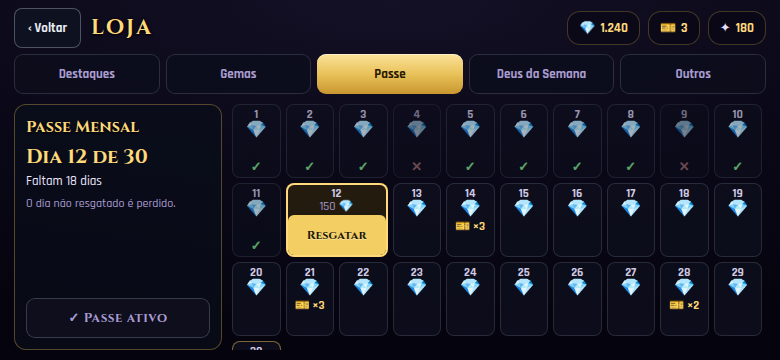
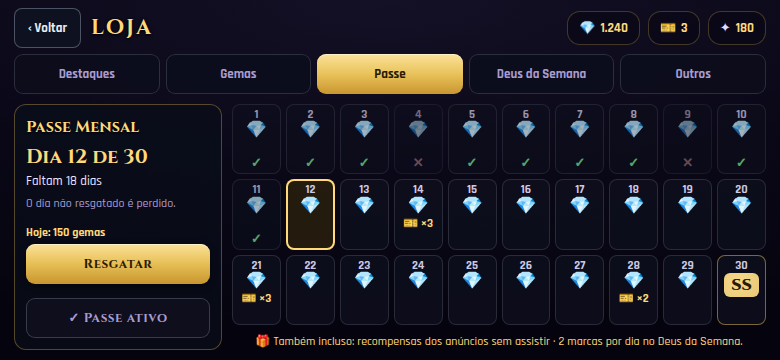
§371b · Loja — três ajustes (aba Passe, Deus da Semana, rodapé)
1. Aba Passe: o dia 30 (o SS) voltou a aparecer. A grade virou 10×3 FIXA (sem rolagem),
   com o dia 30 sempre no canto; a célula de HOJE fica só destacada e é clicável (atalho
   de resgate). O botão RESGATAR foi para o painel da esquerda ("Hoje: <recompensa>",
   acima de "✓ Passe ativo"); após resgatar vira "✓ Resgatado hoje".
   Por que a auditoria não pegou o dia 30 fora: o SCROLL_OK tinha '.loja'/'#loja' e o
   d7/d5 usam closest() → isentavam a tela inteira da Loja do "fora da tela". Caso
   fechado: tirei '.loja'/'#loja' do SCROLL_OK (só a grade de gemas .loja-grade rola); a
   grade do passe (.loja-passe-grade) não é rolável e agora o d7 a guarda.
2. Deus da Semana: o retrato mostra o ROSTO (background-position center 18%, como os
   montadores; caixa com altura no cartão de Destaques) e o cartão de Destaques mostra
   "termina em Xd Yh" (o §371 pedia e faltava). O "ou 1.800 gemas" saiu do teaser (segue
   inteiro na aba Deus da Semana).
3. Rodapé: removido o ponto solto depois de "Ver detalhes".

Provas: tests/loja_tela.test.js (26 ok — 30 dias na grade 10×3, 30ª célula é o selo SS,
Resgatar no painel + atalho na célula de hoje). acessibilidade_telas segue a=b=c=d=e=0 na
Loja (o d7 agora guarda a grade do passe). Capturas 371b-* (passe, destaques, deus da
semana) em 780×360 e 1846×852; 371-* regeneradas. Suíte + build verdes.

Claude-Session: https://claude.ai/code/session_01RXkcJMEMadTZtCymgt9Yf6

diff --git a/src/loja.js b/src/loja.js
@@ -209,8 +209,8 @@ const LOJA = (function () {
       ${artinhaDeus(ds.deus)}
       <div class="loja-card__linha"><b class="loja-card__nome">${esc(nomeDeus(ds.deus))}</b><span class="loja-selo">${esc(ds.raridade || 'S')}</span></div>
       <div class="loja-card__row"><span class="loja-card__marcas">${marcas} de ${meta} marcas</span><span class="loja-dots">${pontos}</span></div>
+      <p class="loja-card__nota">termina em ${terminaEm()}</p>
       ${btn}
-      <p class="loja-card__nota">ou ${fmt((ds.compraDireta) || 1800)} gemas</p>
     </section>`;
   }
   function cardOfertaDestaque() {
@@ -234,7 +234,7 @@ const LOJA = (function () {
 
   function abaDestaques() {
     return `<div class="loja-destaques">${cardPasseDestaque()}${cardDeusDestaque()}${cardOfertaDestaque()}</div>
-      <button class="loja-rodape" onclick="LOJA.verChances()">ⓘ Itens de sorteio mostram as chances em <b>Ver detalhes</b>.</button>`;
+      <button class="loja-rodape" onclick="LOJA.verChances()">ⓘ Itens de sorteio mostram as chances em <b>Ver detalhes</b></button>`;
   }
   function abaGemas() {
     const pacs = (LST && LST.pacotes) || [];
@@ -268,33 +268,42 @@ const LOJA = (function () {
     const hoje = pa.diaAtual;
     const faltam = (pa.dias.length) - hoje;
     const cells = pa.dias.map(di => cellDia(di)).join('');
+    const diaHoje = pa.dias[hoje - 1] || {};
+    const jaResgatou = diaHoje.estado === 'resgatado';
+    const blocoHoje = jaResgatou
+      ? `<div class="loja-cta loja-cta--off loja-passe__hoje" aria-disabled="true">✓ Resgatado hoje</div>`
+      : `<div class="loja-passe__hoje"><span class="loja-passe__hojerot">Hoje: ${recTexto(diaHoje.recompensa)}</span><button class="loja-cta" onclick="LOJA.resgatarPasse()">Resgatar</button></div>`;
     return `<div class="loja-passe">
       <aside class="loja-passe__painel">
         <h2 class="loja-card__tit">Passe Mensal</h2>
         <p class="loja-passe__dia">Dia ${hoje} de ${pa.dias.length}</p>
         <p class="loja-passe__faltam">Faltam ${Math.max(0, faltam)} dias</p>
         <p class="loja-passe__aviso">O dia não resgatado é perdido.</p>
+        ${blocoHoje}
         <div class="loja-cta loja-cta--off" aria-disabled="true">✓ Passe ativo</div>
       </aside>
-      <div class="loja-grade loja-grade--passe">${cells}
+      <div class="loja-passe-grade">${cells}
         <p class="loja-passe__incluso">🎁 Também incluso: recompensas dos anúncios sem assistir · 2 marcas por dia no Deus da Semana.</p>
       </div>
     </div>`;
   }
+  function recTexto(rec) {
+    rec = rec || {}; if (rec.ss) return '1 deus SS';
+    const p = []; if (rec.gema) p.push(rec.gema + ' gemas'); if (rec.bilhetes) p.push(rec.bilhetes + ' bilhetes');
+    return p.join(' + ') || '—';
+  }
+  // §371b: a grade volta a ser 10×3 FIXA (cada dia numa célula; o dia 30 sempre visível). A célula de HOJE é só
+  // DESTACADA (moldura dourada) e clicável (atalho de resgate); o botão Resgatar vive no painel da esquerda.
   function cellDia(di) {
     const rec = di.recompensa || {}, isSS = !!rec.ss, est = di.estado;
     let inner = `<span class="loja-dia__n">${di.dia}</span>`;
-    if (est === 'hoje') {
-      // o dia de hoje: número + a recompensa em UMA linha + o botão Resgatar (sem o ícone, p/ caber sem estourar a célula)
-      inner += isSS ? `<span class="loja-dia__ss">SS</span>` : `<span class="loja-dia__val">${rec.gema ? rec.gema + ' 💎' : (rec.bilhetes ? rec.bilhetes + ' 🎫' : '')}</span>`;
-      inner += `<button class="loja-dia__btn" onclick="LOJA.resgatarPasse()">Resgatar</button>`;
-    } else {
-      if (isSS) inner += `<span class="loja-dia__ss">SS</span>`;
-      else { const bil = (rec.bilhetes && est === 'futuro') ? `<span class="loja-dia__bil">🎫 ×${rec.bilhetes}</span>` : ''; inner += `<span class="loja-dia__gem">💎</span>${bil}`; }
-      if (est === 'resgatado') inner += `<span class="loja-dia__ok">✓</span>`;
-      else if (est === 'perdido') inner += `<span class="loja-dia__x">✕</span>`;
-    }
-    return `<div class="loja-dia loja-dia--${est}${isSS ? ' loja-dia--ssbox' : ''}">${inner}</div>`;
+    if (isSS) inner += `<span class="loja-dia__ss">SS</span>`;
+    else { const bil = (rec.bilhetes && (est === 'hoje' || est === 'futuro')) ? `<span class="loja-dia__bil">🎫 ×${rec.bilhetes}</span>` : ''; inner += `<span class="loja-dia__gem">💎</span>${bil}`; }
+    if (est === 'resgatado') inner += `<span class="loja-dia__ok">✓</span>`;
+    else if (est === 'perdido') inner += `<span class="loja-dia__x">✕</span>`;
+    const cls = `loja-dia loja-dia--${est}${isSS ? ' loja-dia--ssbox' : ''}`;
+    if (est === 'hoje') return `<button class="${cls}" onclick="LOJA.resgatarPasse()" title="Resgatar hoje">${inner}</button>`;
+    return `<div class="${cls}">${inner}</div>`;
   }
   function abaDeusSemana() {
     const ds = (LST && LST.deusSemana) || {}; const bloq = _anuncioBloqueado('marcaDeusSemana');

diff --git a/src/shell.html b/src/shell.html
@@ -1309,7 +1309,7 @@ body{font-family:'Rajdhani',sans-serif;color:var(--ink);display:grid;place-items
 #loja .loja-dots{display:flex;gap:4px}
 #loja .loja-dot{width:11px;height:11px;border-radius:50%;background:rgba(255,255,255,.14);box-shadow:inset 0 0 0 1px rgba(201,164,76,.4)}
 #loja .loja-dot.is-on{background:radial-gradient(circle at 40% 35%,#f4d98a,#d9a32e)}
-#loja .loja-deusart{width:100%;flex:1;min-height:70px;border-radius:10px;background-size:cover;background-position:center top;box-shadow:inset 0 0 0 1px rgba(201,164,76,.3)}
+#loja .loja-deusart{width:100%;flex:1;min-height:70px;border-radius:10px;background-size:cover;background-position:center 18%;box-shadow:inset 0 0 0 1px rgba(201,164,76,.3)}
 #loja .loja-deusart--ph{background:radial-gradient(60% 60% at 50% 35%,rgba(201,164,76,.25),rgba(20,16,38,.6))}
 #loja .loja-card__arte{display:grid;place-items:center;font-size:40px;flex:1;min-height:56px;border-radius:10px;background:radial-gradient(60% 60% at 50% 40%,rgba(201,164,76,.18),rgba(20,16,38,.5))}
 
@@ -1324,7 +1324,8 @@ body{font-family:'Rajdhani',sans-serif;color:var(--ink);display:grid;place-items
 #loja .loja-card--passe{flex:1.7}
 #loja .loja-card--passe .loja-card__arte{min-height:28px;flex:0 1 auto;font-size:30px}
 #loja .loja-card--meio{flex:1;gap:5px}
-#loja .loja-card--meio .loja-card__arte,#loja .loja-card--meio .loja-deusart{flex:0 1 auto;min-height:32px}
+#loja .loja-card--meio .loja-card__arte{flex:0 1 auto;min-height:30px}
+#loja .loja-card--meio .loja-deusart{flex:0 0 auto;height:48px;min-height:48px}
 #loja .loja-card--meio .loja-cta{margin-top:4px}
 #loja .loja-rodape{flex:none;margin:6px auto 0;min-height:40px;display:flex;align-items:center;justify-content:center;gap:4px;background:none;border:0;cursor:pointer;font-family:inherit;font-size:12px;color:var(--ink-dim);padding:0 10px}
 #loja .loja-rodape b{color:var(--gold-text)}
@@ -1354,9 +1355,10 @@ body{font-family:'Rajdhani',sans-serif;color:var(--ink);display:grid;place-items
 #loja .loja-passe__dia{margin:2px 0 0;font-family:'Cinzel',serif;font-weight:700;font-size:20px;color:var(--gold-text)}
 #loja .loja-passe__faltam{margin:0;font-size:13px;color:#EDE7FF}
 #loja .loja-passe__aviso{margin:4px 0 0;font-size:12px;color:var(--ink-dim)}
-#loja .loja-passe__painel .loja-cta--off{margin-top:auto}
-#loja .loja-grade--passe{flex:1;min-height:0;overflow-y:auto;display:grid;grid-template-columns:repeat(10,1fr);grid-auto-rows:minmax(74px,auto);gap:5px;align-content:start;padding-right:4px}
-#loja .loja-dia{position:relative;display:flex;flex-direction:column;align-items:center;justify-content:flex-start;gap:1px;padding:4px 2px;border-radius:8px;background:rgba(14,16,30,.78);box-shadow:inset 0 0 0 1px rgba(154,164,184,.2);min-height:66px}
+#loja .loja-passe__hoje{margin-top:auto;display:flex;flex-direction:column;gap:4px}
+#loja .loja-passe__hojerot{font-size:12px;color:var(--gold-text);font-weight:700}
+#loja .loja-passe-grade{flex:1;min-height:0;overflow:hidden;display:grid;grid-template-columns:repeat(10,1fr);grid-template-rows:repeat(3,1fr) auto;gap:5px}
+#loja .loja-dia{position:relative;display:flex;flex-direction:column;align-items:center;justify-content:flex-start;gap:1px;padding:4px 2px;border:0;border-radius:8px;background:rgba(14,16,30,.78);box-shadow:inset 0 0 0 1px rgba(154,164,184,.2);min-height:60px}
 #loja .loja-dia__n{font-size:12px;font-weight:700;color:#CFC9E4;line-height:1.1}
 #loja .loja-dia__gem{font-size:17px;line-height:1}
 #loja .loja-dia__ss{font-family:'Cinzel',serif;font-weight:900;font-size:16px;color:#2A1A04;background:radial-gradient(circle at 40% 32%,#f4d98a,#e9c877);border-radius:6px;padding:1px 7px}
@@ -1365,7 +1367,7 @@ body{font-family:'Rajdhani',sans-serif;color:var(--ink);display:grid;place-items
 #loja .loja-dia--perdido{opacity:.5}
 #loja .loja-dia__ok{position:absolute;bottom:3px;font-size:13px;color:#7BE08A;font-weight:900}
 #loja .loja-dia__x{position:absolute;bottom:3px;font-size:13px;color:#C98A8A;font-weight:900}
-#loja .loja-dia--hoje{grid-column:span 2;box-shadow:inset 0 0 0 2px var(--gold-text);background:rgba(40,30,14,.9)}
+#loja .loja-dia--hoje{cursor:pointer;font-family:inherit;color:inherit;box-shadow:inset 0 0 0 2px var(--gold-text);background:rgba(40,30,14,.9)}
 #loja .loja-dia--ssbox{box-shadow:inset 0 0 0 1px rgba(201,164,76,.6)}
 #loja .loja-dia__val{font-size:12px;color:var(--ink-dim);text-align:center;line-height:1.05;white-space:nowrap}
 #loja .loja-dia__btn{margin-top:auto;min-height:40px;width:100%;border:0;border-radius:6px;cursor:pointer;font-family:'Cinzel',serif;font-weight:700;font-size:12px;color:#231503;background:#F3CE63;text-shadow:0 1px 0 rgba(255,246,214,.55)}

diff --git a/tools/cap_loja_371b.js b/tools/cap_loja_371b.js
@@ -1,0 +1,46 @@
+// §371 — CAPTURAS da Loja (e da invocação com bilhete) nos dois tamanhos: 780×360 (celular) e 1846×852 (o canvas escalado).
+// Prefixo 371b-. Grava em docs/telas/. Usa o mesmo transporte simulado dos testes (sem servidor).
+const path = require('path');
+const fs = require('fs');
+const { chromium } = require('playwright');
+
+function acharChromium() {
+  if (process.env.INCURSION_CHROMIUM) return process.env.INCURSION_CHROMIUM;
+  const g = '/opt/pw-browsers'; try { for (const d of fs.readdirSync(g)) if (/^chromium/.test(d)) { const e = path.join(g, d, 'chrome-linux', 'chrome'); if (fs.existsSync(e)) return e; } } catch (e) {}
+  return '/opt/pw-browsers/chromium';
+}
+const RAIZ = path.resolve(__dirname, '..');
+const distAbs = 'file://' + path.join(RAIZ, 'dist', 'incursion.html');
+const TELAS = path.join(RAIZ, 'docs', 'telas');
+fs.mkdirSync(TELAS, { recursive: true });
+
+const LOJA_BOOT = `lerToken=function(){return 'tok';};contaAtual={perfil:{moedas:{gema:1240,essencia:180},deuses:{zeus:{copias:1}}},bilhetes:3,pity:10,inicianteUsado:true};window.__L={saldo:{gema:1240,essencia:180},bilhetes:3,pacotes:[{id:'p1',reais:4.90,gemas:450,primeira:true,emDobro:true},{id:'p2',reais:9.90,gemas:950,primeira:true,emDobro:true},{id:'p3',reais:24.90,gemas:2500,primeira:true,emDobro:true},{id:'p4',reais:49.90,gemas:5200,primeira:true,emDobro:true},{id:'p5',reais:99.90,gemas:10800,primeira:false,emDobro:false},{id:'p6',reais:249.90,gemas:28000,primeira:true,emDobro:true}],passe:{ativo:false,dias:[]},deusSemana:{deus:'baldur',raridade:'S',marcas:3,meta:5,dado:false,compraDireta:1800},anuncios:{total:0,teto:8,porTipo:{}},vagasProvacao:1};contaTransporte={pedir:function(m){return Promise.resolve({tipo:'lojaEstado',loja:window.__L,conta:contaAtual});}};function __loja(ab){ir('loja',{},{substituir:true});render();LOJA._setEstadoTeste(window.__L,ab);}`;
+const PASSE12 = `window.__L.passe={ativo:true,diaAtual:12,dias:(function(){var a=[];for(var i=1;i<=30;i++){var e=i<12?((i===4||i===9)?'perdido':'resgatado'):(i===12?'hoje':'futuro');var r=(i===30)?{ss:true}:((i===7||i===14||i===21)?{gema:150,bilhetes:3}:(i===28?{gema:150,bilhetes:2}:{gema:150}));a.push({dia:i,estado:e,recompensa:r});}return a;})()};`;
+
+const CENAS = [
+  ['destaques', LOJA_BOOT + `__loja('destaques');`],
+  ['passe', LOJA_BOOT + PASSE12 + `__loja('passe');`],
+  ['deus-semana', LOJA_BOOT + `__loja('deussemana');`],
+];
+const TAMS = [[780, 360], [1846, 852]];
+
+(async () => {
+  const browser = await chromium.launch({ executablePath: acharChromium(), headless: true, args: ['--no-sandbox'] });
+  const nomes = [];
+  for (const [slug, setup] of CENAS) {
+    for (const [w, h] of TAMS) {
+      const ctx = await browser.newContext({ viewport: { width: w, height: h }, deviceScaleFactor: 1 });
+      const page = await ctx.newPage();
+      await page.goto(distAbs, { waitUntil: 'load' });
+      const err = await page.evaluate(s => { try { eval(s); } catch (e) { return String(e && e.message || e); } const g = document.getElementById('gsplash'); if (g) g.remove(); if (typeof fit === 'function') fit(); return null; }, setup);
+      if (err) { console.log('ERRO', slug, w + 'x' + h, err); await ctx.close(); continue; }
+      await page.waitForTimeout(120);
+      const file = `371b-${slug}-${w}x${h}.png`;
+      await page.screenshot({ path: path.join(TELAS, file) });
+      nomes.push(file);
+      await ctx.close();
+    }
+  }
+  await browser.close();
+  console.log('capturas §371:\n' + nomes.map(n => '  docs/telas/' + n).join('\n'));
+})();

diff --git a/tests/loja_tela.test.js b/tests/loja_tela.test.js
@@ -80,12 +80,18 @@ function montar(cfgResp) {
       lojaResgatarPasse: { tipo: 'lojaPasseResgate', premio: { dia: 12, gema: 150 }, saldo: { gema: 1390, essencia: 180 }, bilhetes: 3, conta: null } });
     P.w.eval("ir('loja',{},{substituir:true}); render();"); await sleep(40);
     P.w.eval("LOJA.ir('passe')");
-    ok(P.$$('.loja-dia').length === 30, 'o calendário mostra 30 dias');
+    ok(P.$$('.loja-dia').length === 30, 'o calendário mostra 30 dias (grade 10×3 fixa, dia 30 sempre visível)');
     ok(P.$$('.loja-dia--perdido').length === 2, 'os dias não resgatados aparecem como PERDIDOS');
-    ok(!!P.$('.loja-dia--hoje') && !!P.$('.loja-dia__btn'), 'o dia de hoje tem o botão Resgatar');
-    ok(!!P.$('.loja-dia--ssbox'), 'o dia 30 é o selo SS');
-    P.clk(P.$('.loja-dia__btn')); await sleep(40);
-    ok(P.calls().some(c => c.tipo === 'lojaResgatarPasse'), 'resgatar envia lojaResgatarPasse');
+    ok(!!P.$('.loja-dia--hoje') && P.$('.loja-dia--hoje').tagName === 'BUTTON', 'a célula de hoje é destacada e clicável (atalho)');
+    ok(!!P.$('.loja-passe__hoje .loja-cta') && /Resgatar/.test(P.$('.loja-passe__hoje').textContent), '§371b: o botão Resgatar fica no painel da esquerda (Hoje: …)');
+    ok(!!P.$('.loja-dia--ssbox') && !!P.$$('.loja-dia')[29].querySelector('.loja-dia__ss'), 'o dia 30 é o selo SS (última célula)');
+    P.clk(P.$('.loja-passe__hoje .loja-cta')); await sleep(40);
+    ok(P.calls().some(c => c.tipo === 'lojaResgatarPasse'), 'resgatar (painel) envia lojaResgatarPasse');
+    // atalho: tocar na célula de hoje também resgata
+    const P2 = montar({ lojaEstado: { tipo: 'lojaEstado', loja: estadoBase(), conta: null }, lojaResgatarPasse: { tipo: 'lojaPasseResgate', premio: { dia: 12, gema: 150 }, conta: null } });
+    P2.w.eval("ir('loja',{},{substituir:true}); render();"); await sleep(40); P2.w.eval("LOJA.ir('passe')");
+    P2.clk(P2.$('.loja-dia--hoje')); await sleep(40);
+    ok(P2.calls().some(c => c.tipo === 'lojaResgatarPasse'), 'tocar na célula de hoje também resgata (atalho)');
   }
 
   // 4) dia 30 → a REVELAÇÃO do SS (reusa a carta da Invocação).

diff --git a/tools/auditoria_medida.js b/tools/auditoria_medida.js
@@ -3,7 +3,10 @@
 const MIN_CORPO = 12, MIN_ROTULO = 11, MIN_TOQUE = 40;
 // lista BRANCA de rolagem: SÓ listas podem rolar (grade de personagens, Provações, Loja, Desafios/Composição).
 const SCROLL_OK = ['.col2__grade', '.dm-grade', '.cgrid--pick', '#provfix .pv2-grade', '#provfix .pv2-off',
-  '.df-grade', '#compfix .cmp-grade', '.guia-grade', '.loja', '#loja', '.loja-grade'];
+  '.df-grade', '#compfix .cmp-grade', '.guia-grade', '.loja-grade'];
+// §371b: SÓ a grade de GEMAS (.loja-grade) rola na Loja. Tirados '.loja'/'#loja' — como o d7/d5 usam closest(), eles
+// isentavam a TELA INTEIRA da Loja da checagem de "fora da tela" (foi por isso que o dia 30 do passe, empurrado para
+// fora pela célula de 2 colunas, não foi acusado). A grade do passe NÃO é rolável (10×3 fixa) → agora o d7 a guarda.
 const CFG = { MIN_CORPO, MIN_ROTULO, MIN_TOQUE, SCROLL_OK };
 
 function medirNaPagina(cfg){

diff --git a/DECISOES.md b/DECISOES.md
@@ -6,6 +6,29 @@ O valor daqui é evitar que uma decisão seja desfeita por parecer arbitrária.
 
 ---
 
+## §371b · Loja — três ajustes (vistos nas capturas 371-*-780x360)
+
+1. **Aba Passe — o dia 30 voltou.** No §371 a célula de HOJE ocupava 2 colunas; os dias seguintes deslizavam e o dia 30
+   (o SS, o atrativo) ia para uma 4ª fileira cortada embaixo. Agora a grade é **10×3 FIXA** (`grid-template-rows:
+   repeat(3,1fr) auto`, sem rolagem): cada dia numa célula, o **dia 30 sempre no canto**. A célula de HOJE fica só
+   **destacada** (moldura dourada) e é **clicável** (atalho de resgate, vira `<button>`). O botão **RESGATAR** mudou para o
+   **painel da esquerda**, numa linha "Hoje: <recompensa>" acima de "✓ Passe ativo"; depois de resgatar vira "✓ Resgatado
+   hoje".
+   - **Por que a auditoria não pegou o dia 30 fora:** o `SCROLL_OK` da auditoria tinha `'.loja'` e `'#loja'`, e o d7/d5
+     usam `closest()` — então a TELA INTEIRA da Loja ficava isenta da checagem de "fora da tela". **Caso fechado:** tirei
+     `.loja`/`#loja` do `SCROLL_OK` (só a grade de **gemas**, `.loja-grade`, rola); a grade do passe (`.loja-passe-grade`)
+     **não é lista rolável** e agora o d7 a guarda.
+2. **Deus da Semana — o retrato mostra o rosto.** O retrato (512×590, vertical) virava uma faixa estreita (só o topo).
+   Agora usa `background-position:center 18%` (como os montadores, `object-position:center 16–18%`) e, no cartão de
+   Destaques, uma caixa com altura (48px) em vez de uma faixa — o rosto (Baldur) aparece. E o cartão de Destaques mostra
+   **"termina em Xd Yh"** (o §371 pedia e faltava). Para caber sem estourar, o "ou 1.800 gemas" saiu do TEASER (segue
+   inteiro na aba Deus da Semana).
+3. **Rodapé:** tirei o ponto solto depois de "Ver detalhes".
+
+**Prova:** `tests/loja_tela.test.js` — os 30 dias numa grade 10×3, a 30ª célula é o selo SS, o Resgatar no painel e o
+atalho de tocar na célula de hoje (26 asserções). `acessibilidade_telas` segue a=b=c=d=e=0 nos estados da Loja (agora com
+o d7 guardando a grade do passe de verdade). Capturas `371b-*` (passe, destaques, deus da semana) em 780×360 e 1846×852.
+
 ## §371 · LOJA, parte 2: AS TELAS (5 abas, calendário do passe, compra/anúncio SIMULADOS, bilhete na Invocação)
 
 As TELAS do §370 (o servidor já existia e só é consumido). Novo módulo `src/loja.js` (IIFE `LOJA`, como `src/invocacao.js`),

diff --git a/ESTADO.md b/ESTADO.md
@@ -2,6 +2,17 @@
 
 > Atualizado ao fim de cada sessão. Quem lê é uma sessão sem memória.
 
+## ★ §371b · Loja — três ajustes (passe, Deus da Semana, rodapé)
+- **Passe:** grade **10×3 FIXA** (sem rolagem) — o **dia 30 (SS) sempre visível**; a célula de HOJE é só destacada e
+  clicável (atalho); o botão **Resgatar** foi para o painel da esquerda ("Hoje: <recompensa>" → vira "✓ Resgatado hoje").
+  Caso fechado: tirei `.loja`/`#loja` do `SCROLL_OK` da auditoria (isentavam a tela toda do d7 via closest); só a grade de
+  **gemas** rola; a grade do passe não é rolável e agora o d7 a guarda.
+- **Deus da Semana:** retrato mostra o **rosto** (`background-position:center 18%`; caixa com altura no Destaque) e o
+  cartão de Destaques mostra **"termina em Xd Yh"**.
+- **Rodapé:** sem o ponto solto depois de "Ver detalhes".
+- **Prova:** `tests/loja_tela.test.js` (26 ok); `acessibilidade_telas` a=b=c=d=e=0 na Loja (d7 agora guarda o passe).
+  Capturas `371b-*` (passe, destaques, deus da semana) 780×360 e 1846×852. Suíte + build verdes.
+
 ## ★ §371 · LOJA, parte 2: AS TELAS (5 abas + calendário + compra/anúncio simulados + bilhete na Invocação)
 - **Novo:** `src/loja.js` (IIFE `LOJA`), rota `loja` em `view.js`, canvas 780×360 (`emloja`/`#lojafix` em `base.js`+CSS). A
   ilha "Loja" da home abre a rota (`data/mapa.json`: `rota:'loja'`, sem `emBreve`). O cliente só consome o §370; nunca soma.
